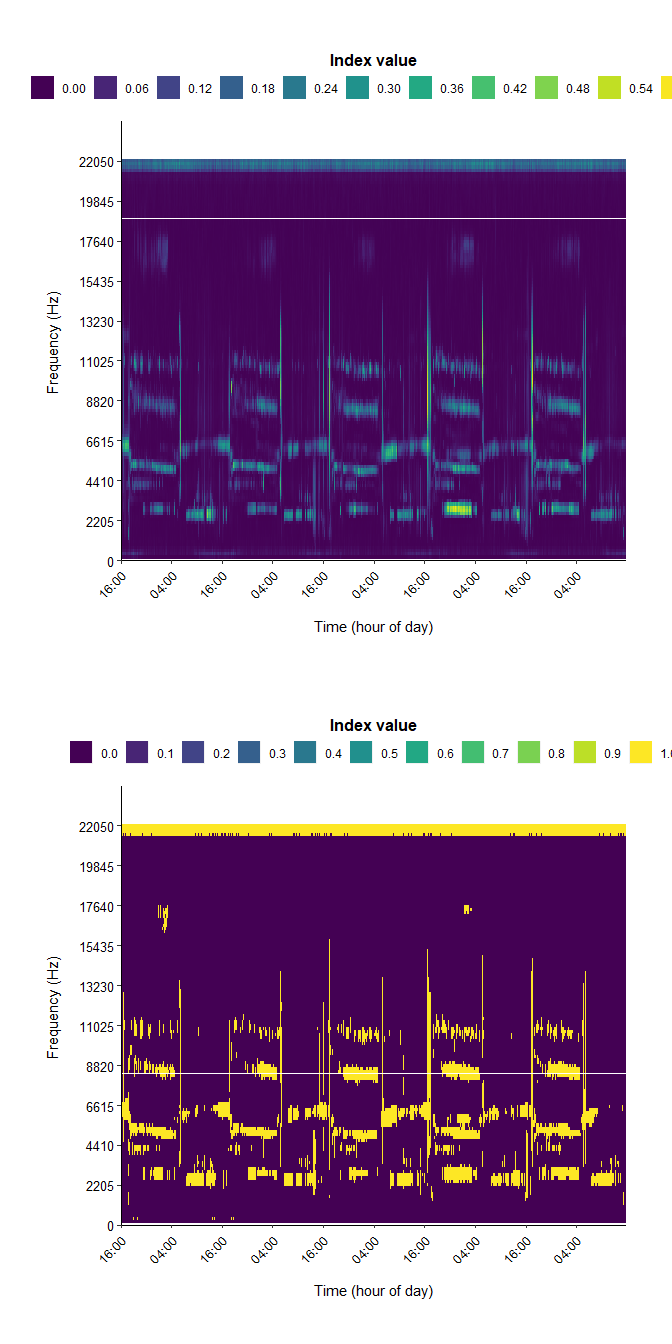
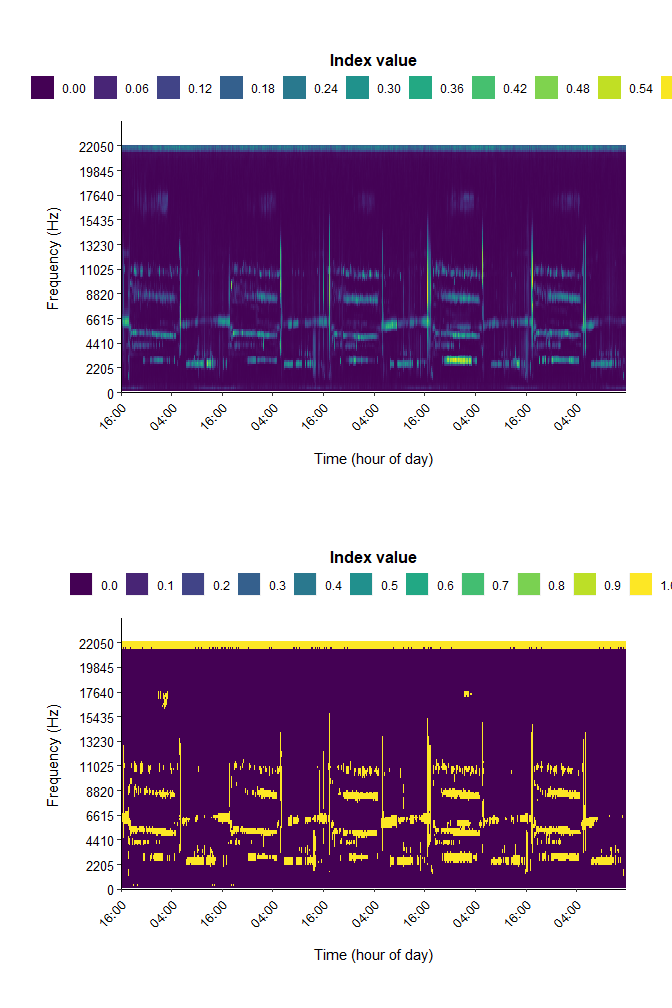
Updating vignette

diff --git a/README.md b/README.md
@@ -209,6 +209,8 @@ noise-reduced frequency bin whose value exceeds a 3 dB threshold.
 
 ## 1.3. Merging acoustic indices chronologically
 
+### 1.3.1. The `merge_csv` function
+
 Next up, we will merge the spectral CVR-index files chronologically,
 resulting in a time-by-frequency data frame containing the index values.
 
@@ -239,6 +241,8 @@ merged_CVR_index <- soundscapeR::merge_csv(fileloc = location_output,
                                            lat = -1.48819, 
                                            lon = -59.7872)
 ```
+
+### 1.3.2. Introducing the *soundscape* object
 
 As you may have noticed, this function requires us to provide some
 additional background information regarding how the data was collected
@@ -445,6 +449,48 @@ amplitude threshold. As such, the values can technically range between
 
 Alright, that is enough theory for now! Let’s proceed with the workflow.
 
+## 1.4. The concept of Operational Sound Units (OSUs)
+
+Biodiversity metrics are usually based on taxonomic species and their
+abundance. Yet, using this workflow, we wish to quantify the acoustic
+diversity of sounds emanating from the landscape without a taxonomic
+link to the source organisms, hereafter referred to as the soundscape
+diversity. Hence, to quantify this *soundscape diversity*, we require a
+unit of measurement that groups sounds by their shared properties
+without the need for taxonomic identification.
+
+In analogy to the Operational Taxonomic Units used in genetic research,
+in our workflow, we propose a novel unit of diversity measurement: the
+Operational Sound Unit (OSU). This unit of measurement groups sounds by
+their shared spectro-temporal properties, and is obtained by dividing
+the acoustic trait space into many discrete spectro-temporal bins which
+are the soundscape equivalent of time-frequency bins in a spectrogram.
+
+![\\\\\[0.1in\]](https://latex.codecogs.com/png.image?%5Cdpi%7B110%7D&space;%5Cbg_white&space;%5C%5C%5B0.1in%5D "\\[0.1in]")
+
+<img src="man/figures/Fig_5_OSUs.png" title="A conceptual visualization of Operational Sound Units (OSUs) in the 24-hour acoustic trait space. Each 24-hour sample of the acoustic trait space can be divided into sections which we define as OSUs. These OSUs are delineated by the frequency-bin width of the spectral index vector (frequency domain) and the recording interval of the sampling regime (temporal domain), and groups sounds by their shared properties in acoustic trait space." alt="A conceptual visualization of Operational Sound Units (OSUs) in the 24-hour acoustic trait space. Each 24-hour sample of the acoustic trait space can be divided into sections which we define as OSUs. These OSUs are delineated by the frequency-bin width of the spectral index vector (frequency domain) and the recording interval of the sampling regime (temporal domain), and groups sounds by their shared properties in acoustic trait space." width="100%" style="display: block; margin: auto;" />
+
+![\\\\\[0.001in\]](https://latex.codecogs.com/png.image?%5Cdpi%7B110%7D&space;%5Cbg_white&space;%5C%5C%5B0.001in%5D "\\[0.001in]")
+
+***Fig 4:*** *“A conceptual visualization of Operational Sound Units
+(OSUs) in the 24-hour acoustic trait space. Each 24-hour sample of the
+acoustic trait space can be divided into sections which we define as
+OSUs. These OSUs are delineated by the frequency-bin width of the
+spectral index vector (frequency domain) and the recording interval of
+the sampling regime (temporal domain), and groups sounds by their shared
+properties in acoustic trait space.”*
+
+![\\\\\[0.1in\]](https://latex.codecogs.com/png.image?%5Cdpi%7B110%7D&space;%5Cbg_white&space;%5C%5C%5B0.1in%5D "\\[0.1in]")
+
+Practically, we have already performed the steps needed to obtain this
+unit of measurement: each time-frequency cell in the chronologically
+concatenated data frame delineates a unique section of the 24-hour
+acoustic trait space, and thus represents an OSU.
+
+In the next section, we will convert the raw CVR-values of each OSU into
+detection/non-detection values per 24-hour sample of the acoustic trait
+space using the `binarize_df` function.
+
 ## 1.4. Binarization of the CVR-index values
 
 For the rest of the workflow, instead of using the limited data produced
@@ -481,6 +527,21 @@ acoustic trait space while removing low-amplitude or transient sounds,
 which potentially have a non-biological origin, from the data. In this
 way, we hope to capture the acoustic structure of the soundscape while
 removing background noise.
+
+![\\\\\[0.1in\]](https://latex.codecogs.com/png.image?%5Cdpi%7B110%7D&space;%5Cbg_white&space;%5C%5C%5B0.1in%5D "\\[0.1in]")
+
+<img src="man/figures/Fig_4_binarization.png" title="A visualization showing the binarization step, starting from the chronologically concatenated CVR-index values for a 24-hour soundscape sample. Next, a threshold value is applied, which is derived using a binarization algorithm. Based on this threshold value, the raw CVR-values are transformed into binary detection (1) / non-detection (0) values." alt="A visualization showing the binarization step, starting from the chronologically concatenated CVR-index values for a 24-hour soundscape sample. Next, a threshold value is applied, which is derived using a binarization algorithm. Based on this threshold value, the raw CVR-values are transformed into binary detection (1) / non-detection (0) values." width="100%" style="display: block; margin: auto;" />
+
+![\\\\\[0.001in\]](https://latex.codecogs.com/png.image?%5Cdpi%7B110%7D&space;%5Cbg_white&space;%5C%5C%5B0.001in%5D "\\[0.001in]")
+
+***Fig 5:*** *“A visualization showing the binarization step, starting
+from the chronologically concatenated CVR-index values for a 24-hour
+soundscape sample. Next, a threshold value is applied, which is derived
+using a binarization algorithm. Based on this threshold value, the raw
+CVR-values are transformed into binary detection (1) / non-detection (0)
+values.”*
+
+![\\\\\[0.1in\]](https://latex.codecogs.com/png.image?%5Cdpi%7B110%7D&space;%5Cbg_white&space;%5C%5C%5B0.1in%5D "\\[0.1in]")
 
 To do this, we make use of the binarization algorithms available in the
 R-package. For this example, we will use the ‘IsoData’ binarization
